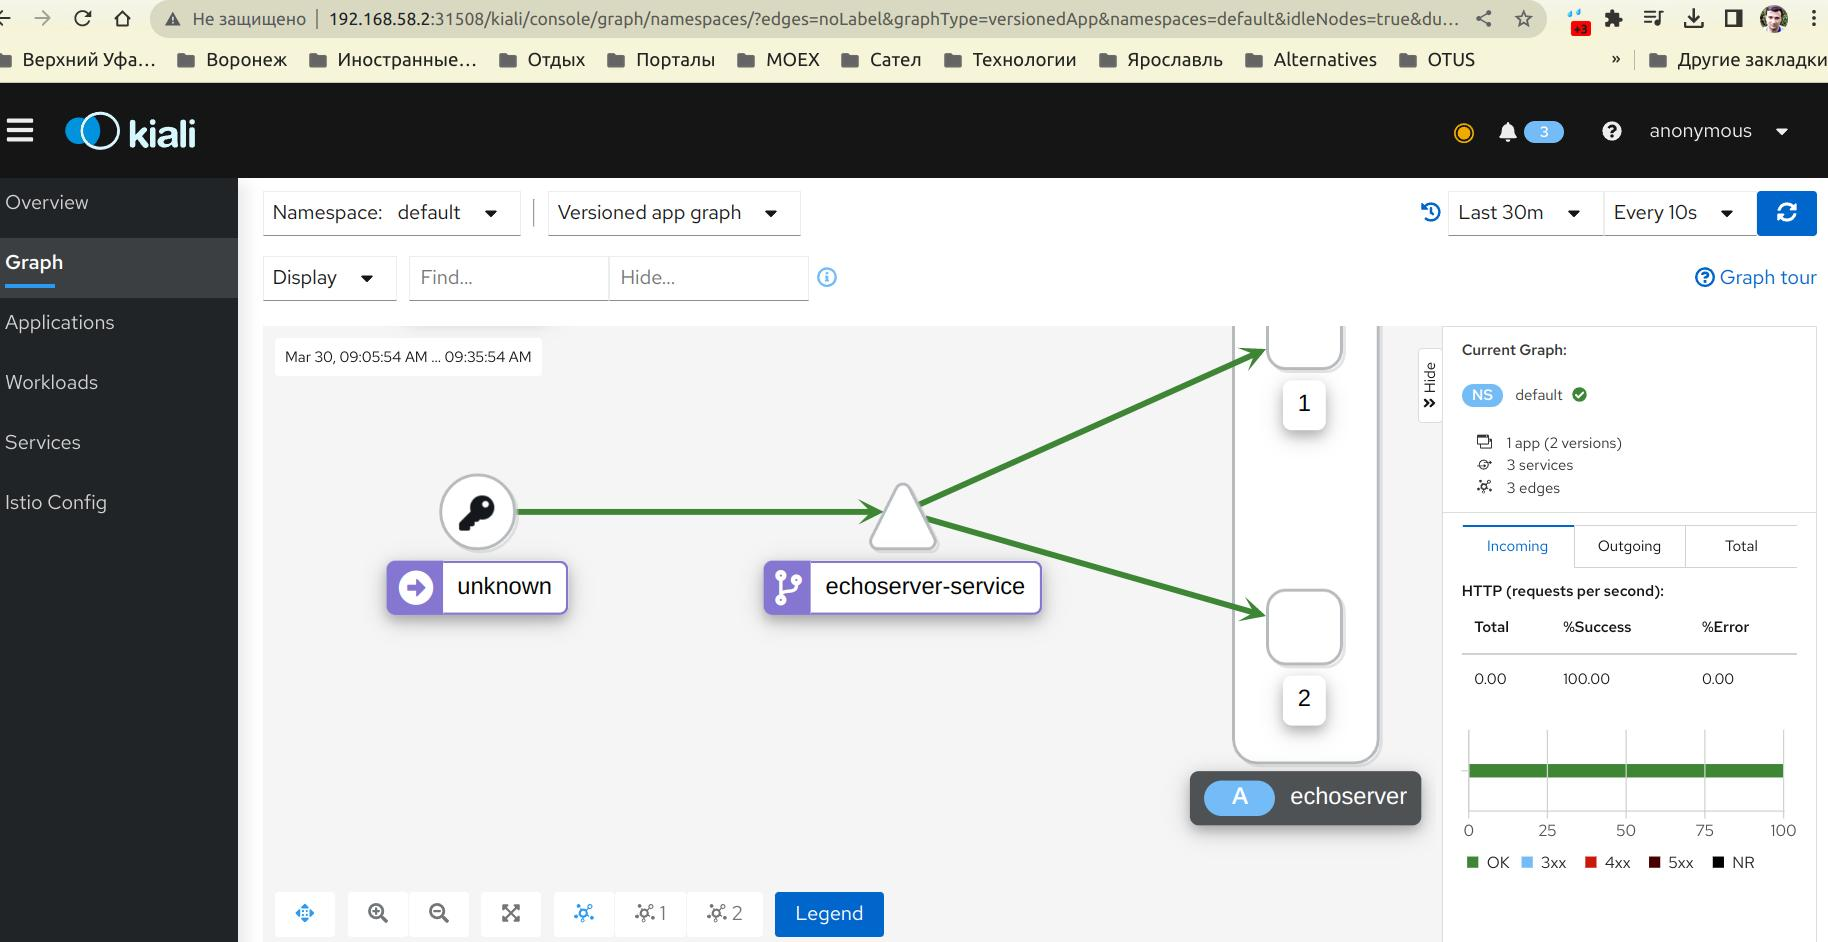
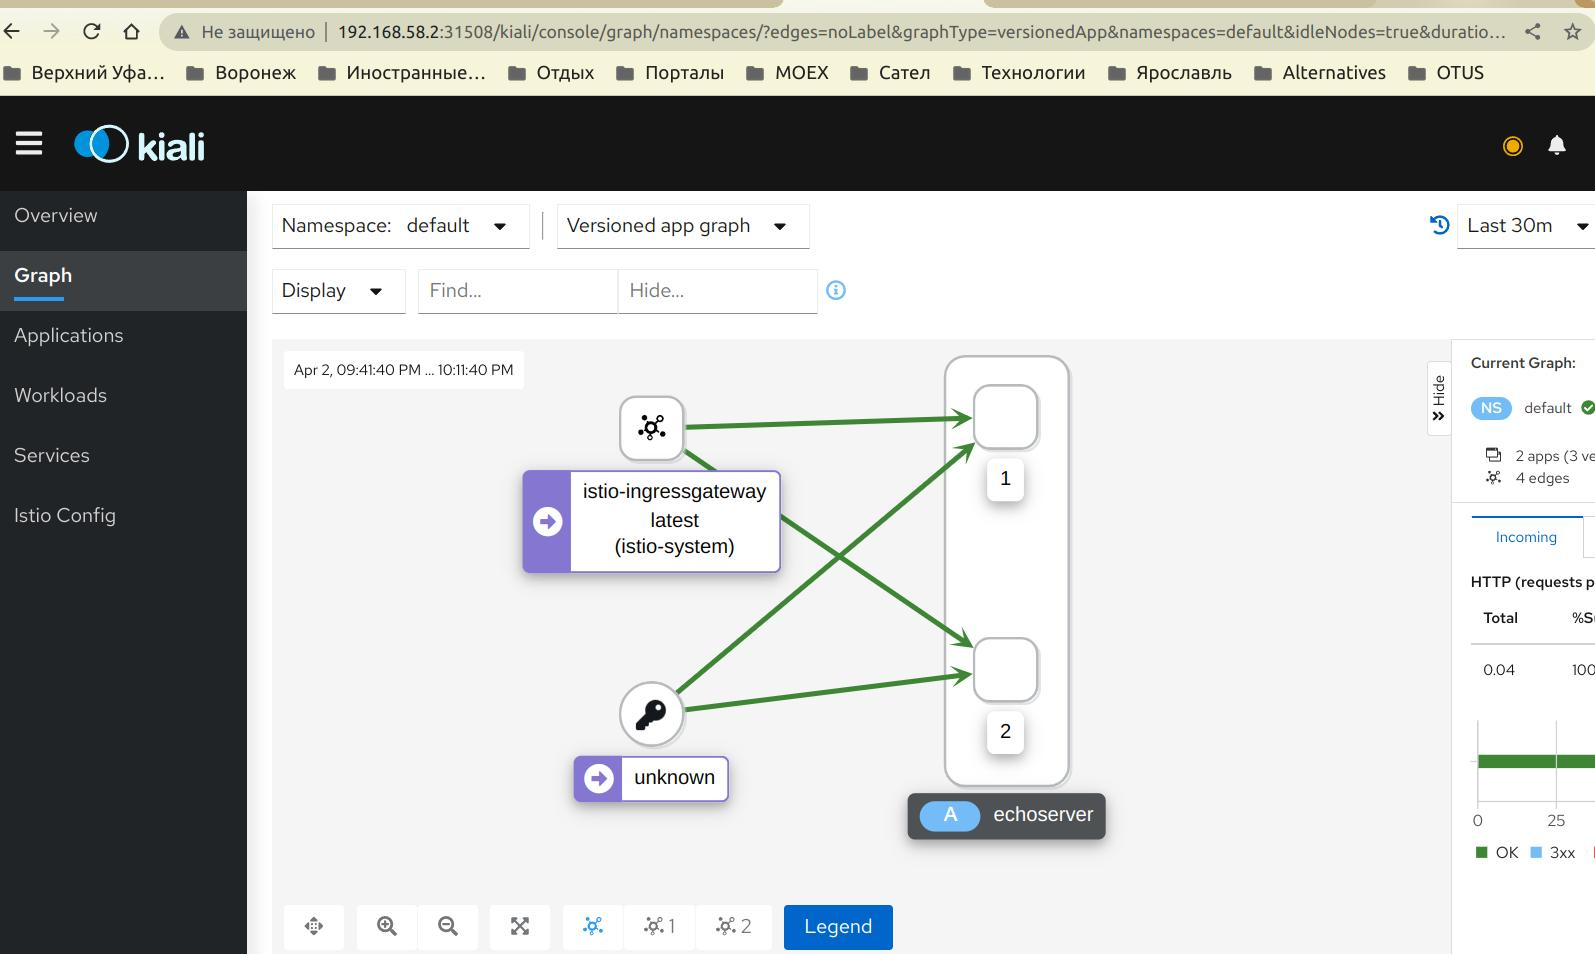
ДЗ выполнена работа по замечаниям преподавателя, на проверку

diff --git a/RESULT.md b/RESULT.md
@@ -81,15 +81,27 @@ export PATH=$HOME/.istioctl/bin:$PATH
 
 ![img_25.png](img_25.png)
 
-так как никакого ingress внутрь minikube я не настраивал, можно проверить трафик istio просто изнутри кластера кубера, для этого зайдем в кластер командой
+необходимо также открыть для minikube туннель, иначе не будет доступа снаружи кластера и istio-ingressgateway будет все время в статусе pending
 
-`minikube -p minikube-old ssh`
+`minikube -p minikube-old tunnel` и через некоторое время ввести пароль root
 
-и что-нибудь пошлем в шлюз, можно пинг, можно curl
+![img_24.png](img_24.png)
 
-![img_26.png](img_26.png)
+затем дважды проверим работу istio - один раз прямо внутри кластера, зайдя в него по ssh командой minikube -p minikube-old ssh и затем curl на external ip
+
+![img_27.png](img_27.png)
+
+затем проверяем доступ извне кластера по тому же ip
+
+![img_28.png](img_28.png)
+
+а также проверим работу через браузер
+
+![img_29.png](img_29.png)
 
 в результате получим [диаграмму](kiali-diagram-result.jpg) в Kilio, отображающую трафик и схему istio
+
+мы видим на ней два источника - unknown это для случая, когда я курлил сервис изнутри кластера, а именованный источник - для случаев, когда я курлил сервис через istio-ingressgateway
 
 ![](kiali-diagram-result.jpg)
 
